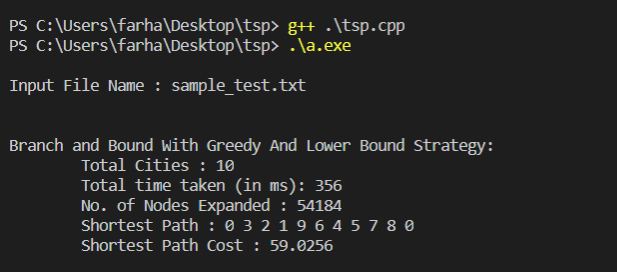
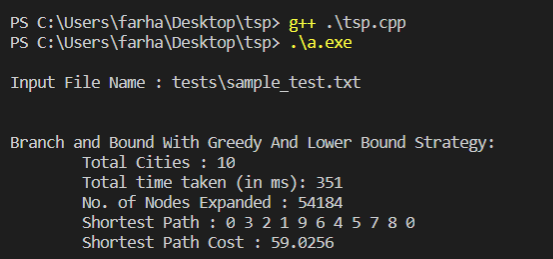
update

Changed region(s): [[0.0, 0.4942, 0.8915, 0.9575], [0.0, 0.0618, 0.7378, 0.2162], [0.0, 0.278, 0.6456, 0.3707]]

diff --git a/readme.MD b/readme.MD
@@ -1,21 +1,21 @@
 # Dependencies
-    - python 2.7+
-    - pip install argparse (if not already installed)
+    - C++
 
-## (1) maxSAT.py
-Max-SAT solver (See details in `maxSAT.py`)
+## (1) tsp.cpp
+TSP solver (See details in `tsp.cpp`)
 #### usage
 ```bash
-python maxSAT.py -h
-python maxSAT.py -d "/mnt/c/cs271p-final/tests/benchmarks"
+g++ tsp.cpp
+./a.out
+
+Input File Name : tests\sample_test.txt
 ```
-NOTE: make sure -d points to the  folder/directory containing the problem for CNF in the format defined here as below only.
-https://github.com/baiqiushi/cs271p/blob/20a562c8b33125a8bdc8f9ce312a2622c328fabd/genMaxSAT.py
+NOTE: 
+1. make sure input file name points to the  folder/directory containing the input problem 
+   (For simplicity, place the input file in the same folder as tsp.cpp and enter the file name. eg: sample_test.txt)
+2. Format of the input is described here : https://github.com/baiqiushi/cs271p/blob/20a562c8b33125a8bdc8f9ce312a2622c328fabd/genMaxSAT.py
 
-Any other files in the directory will not be parsed an will be skipped without terminating the program
 
+This program supports early termination either by USERS INTERRUPT i.e. ^C or if the time runs out (default 15 mins)
 
-
-this program supports early termination either by USERS INTERRUPT i.e. ^C or if the time runs out
-
-checkout examples in **ExampleRun.png** file in the zip for more info
+checkout examples in **sample_run_screenshot.png** file in the zip for more info
